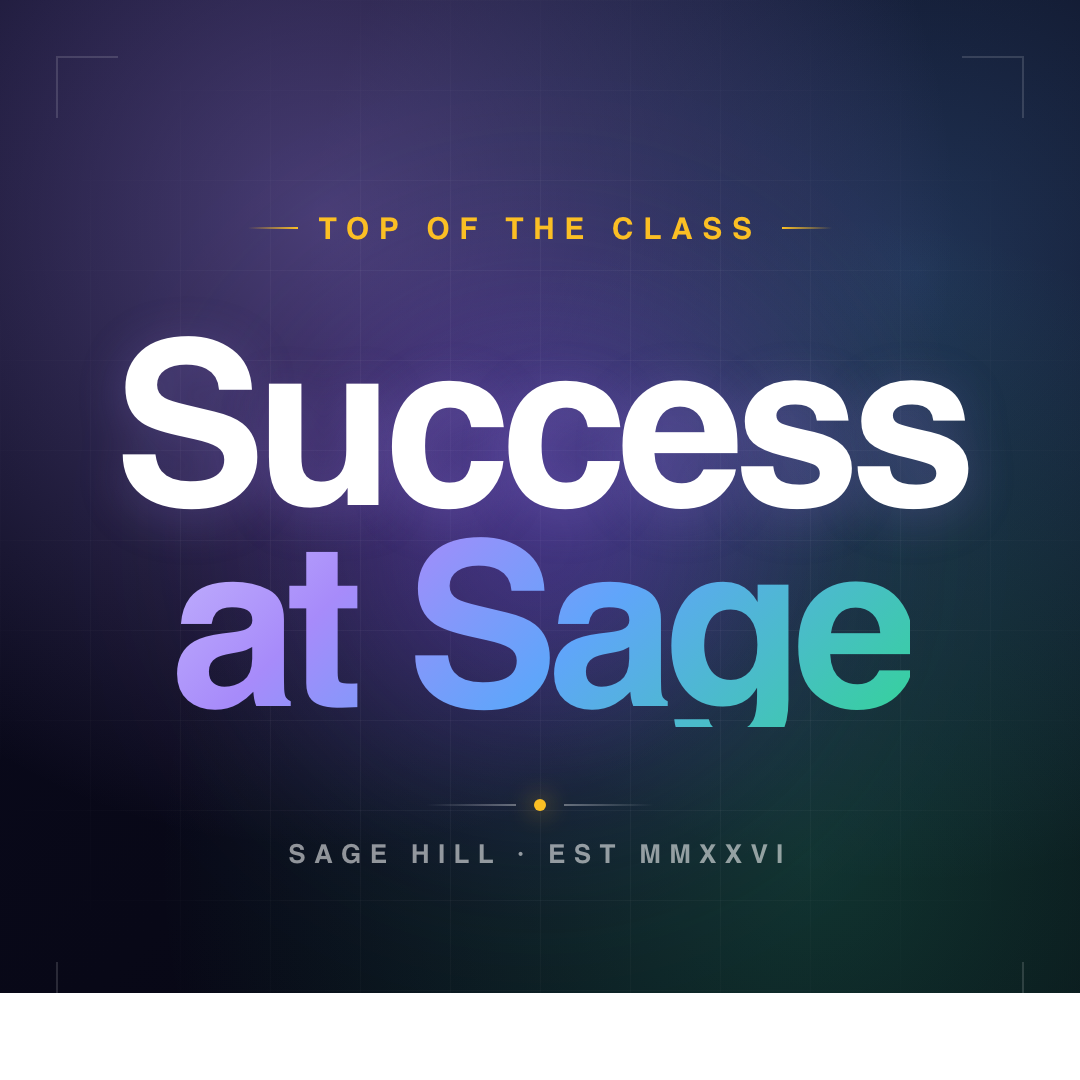
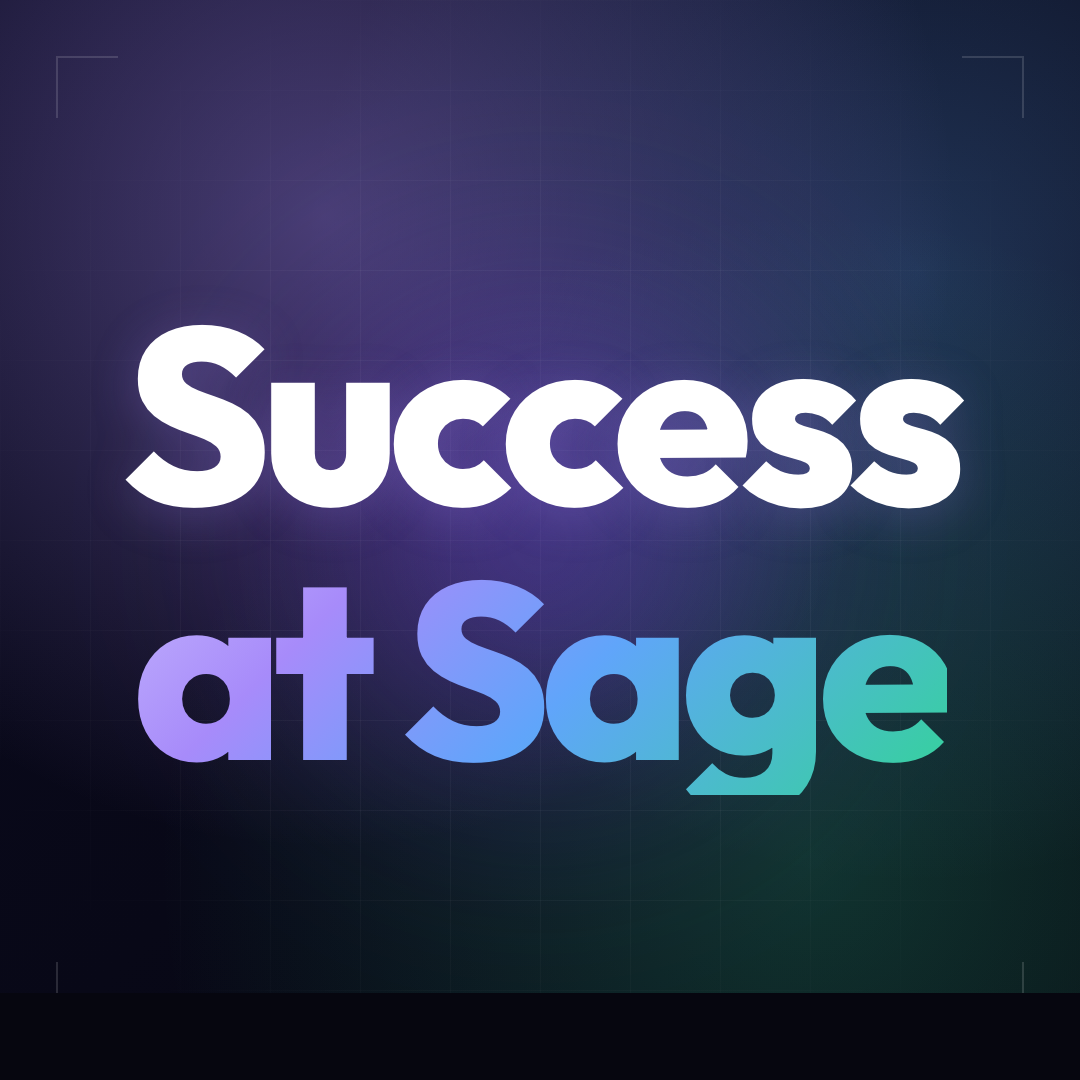
fix(marketing): tighten profile-pic typography
- Drop weight 900 → 800 (the site tops out at 800, so 900 was falling back
  to a different metric in headless Chrome and clipping "Sage"'s descender)
- Remove "Top of the Class" eyebrow + "Sage Hill · Est MMXXVI" tagline;
  the wordmark now fills the card with better presence
- Relax line-height to 1.02 so the "g" descender has headroom
- Set html/body background to #06060f + --default-background-color to kill
  the thin white strip at the bottom of the rendered PNG
- Wait on document.fonts.ready before screenshot so Outfit actually loads

diff --git a/marketing/src/profile-picture.html b/marketing/src/profile-picture.html
@@ -5,7 +5,7 @@
 <title>Success at Sage — profile picture</title>
 <link rel="preconnect" href="https://fonts.googleapis.com" />
 <link rel="preconnect" href="https://fonts.gstatic.com" crossorigin />
-<link href="https://fonts.googleapis.com/css2?family=Outfit:wght@400;500;600;700;800;900&display=swap" rel="stylesheet" />
+<link href="https://fonts.googleapis.com/css2?family=Outfit:wght@300;400;500;600;700;800&display=block" rel="stylesheet" />
 <style>
   :root {
     --bg: #06060f;
@@ -14,10 +14,14 @@
     --blue-400: #60a5fa;
     --green-400: #34d399;
     --amber-400: #fbbf24;
-    --amber-500: #f59e0b;
     --text: #ffffff;
   }
-  html, body { margin: 0; padding: 0; background: transparent; }
+  html, body {
+    margin: 0;
+    padding: 0;
+    background: #06060f;
+    overflow: hidden;
+  }
   body {
     width: 1080px;
     height: 1080px;
@@ -58,87 +62,32 @@
     filter: blur(90px);
   }
 
-  /* Top eyebrow wordmark */
-  .eyebrow {
-    position: relative;
-    z-index: 3;
-    display: flex;
-    align-items: center;
-    gap: 20px;
-    font-size: 30px;
-    font-weight: 700;
-    letter-spacing: 0.32em;
-    color: var(--amber-400);
-    text-transform: uppercase;
-    margin-bottom: 80px;
-  }
-  .eyebrow .tick {
-    width: 50px; height: 2px;
-    background: linear-gradient(90deg, transparent, var(--amber-400));
-  }
-  .eyebrow .tick.right {
-    background: linear-gradient(90deg, var(--amber-400), transparent);
-  }
-
-  /* Hero wordmark — stacked */
+  /* Hero wordmark — stacked and centered */
   .hero {
     position: relative;
     z-index: 3;
     display: flex;
     flex-direction: column;
     align-items: center;
-    line-height: 0.88;
+    /* Give the "g" descender generous headroom so it never clips. */
+    line-height: 1.02;
+    padding: 0 80px;
   }
   .hero .success {
-    font-size: 228px;
-    font-weight: 900;
-    letter-spacing: -0.045em;
+    font-size: 250px;
+    font-weight: 800;
+    letter-spacing: -0.04em;
     color: var(--text);
     text-shadow: 0 8px 48px rgba(167, 139, 250, 0.25);
   }
   .hero .at-sage {
-    font-size: 228px;
-    font-weight: 900;
-    letter-spacing: -0.045em;
+    font-size: 250px;
+    font-weight: 800;
+    letter-spacing: -0.04em;
     background: linear-gradient(135deg, #c4b5fd 0%, #a78bfa 25%, #60a5fa 55%, #34d399 100%);
     -webkit-background-clip: text;
     background-clip: text;
     color: transparent;
-  }
-
-  /* Divider rule with amber dot */
-  .rule {
-    position: relative;
-    z-index: 3;
-    margin-top: 72px;
-    display: flex;
-    align-items: center;
-    gap: 18px;
-  }
-  .rule .line {
-    width: 90px; height: 2px;
-    background: linear-gradient(90deg, transparent, rgba(255,255,255,0.35));
-  }
-  .rule .line.right {
-    background: linear-gradient(90deg, rgba(255,255,255,0.35), transparent);
-  }
-  .rule .dot {
-    width: 12px; height: 12px;
-    border-radius: 50%;
-    background: var(--amber-400);
-    box-shadow: 0 0 24px rgba(251, 191, 36, 0.8);
-  }
-
-  /* Bottom tagline */
-  .tagline {
-    position: relative;
-    z-index: 3;
-    margin-top: 28px;
-    font-size: 26px;
-    font-weight: 600;
-    letter-spacing: 0.32em;
-    color: rgba(255, 255, 255, 0.55);
-    text-transform: uppercase;
   }
 
   /* Corner ornaments — tiny crosshair marks for an "emblem" feel */
@@ -154,6 +103,12 @@
   .corner.bl { bottom: 56px; left: 56px; border-right: 0; border-top: 0; }
   .corner.br { bottom: 56px; right: 56px; border-left: 0; border-top: 0; }
 </style>
+<script>
+  // Signal to headless Chrome that fonts are fully loaded before screenshot.
+  // Without this, the renderer can race the webfont and fall back to a
+  // sans-serif with different metrics (clipped descenders, wrong kerning).
+  document.fonts.ready.then(() => { document.body.dataset.ready = "1"; });
+</script>
 </head>
 <body>
   <div class="card">
@@ -165,24 +120,10 @@
     <div class="corner bl"></div>
     <div class="corner br"></div>
 
-    <div class="eyebrow">
-      <span class="tick"></span>
-      <span>Top&nbsp;of&nbsp;the&nbsp;Class</span>
-      <span class="tick right"></span>
-    </div>
-
     <div class="hero">
       <div class="success">Success</div>
       <div class="at-sage">at&nbsp;Sage</div>
     </div>
-
-    <div class="rule">
-      <span class="line"></span>
-      <span class="dot"></span>
-      <span class="line right"></span>
-    </div>
-
-    <div class="tagline">Sage&nbsp;Hill · Est&nbsp;MMXXVI</div>
   </div>
 </body>
 </html>
